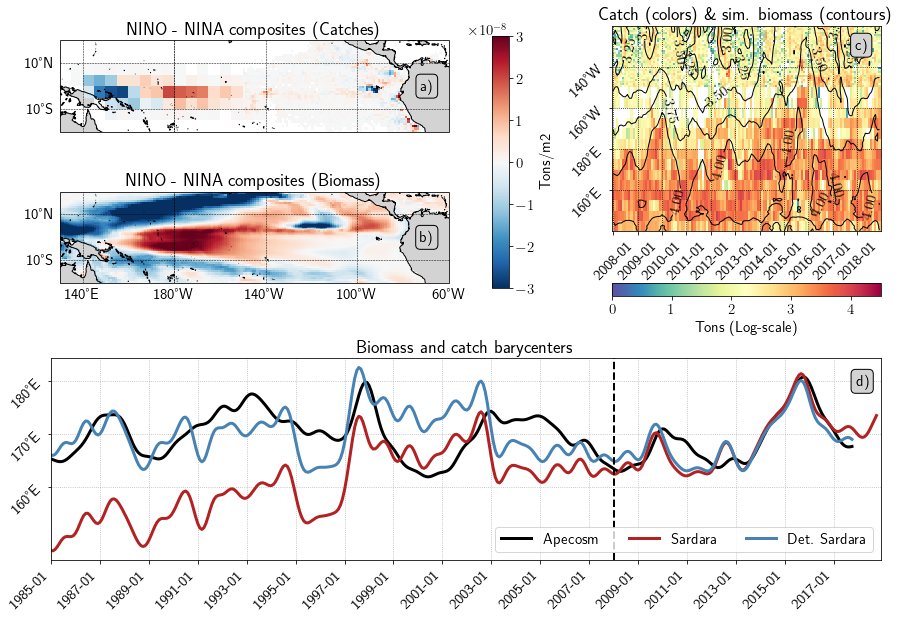
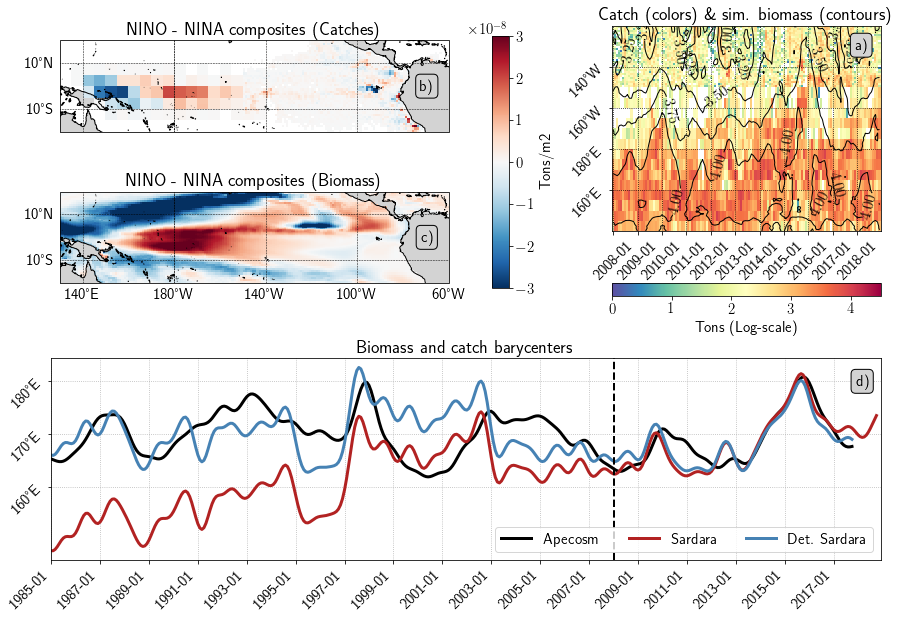
Update figure

diff --git a/scripts/sardara-zenodo/plot_validation_apecosm_sardara.py b/scripts/sardara-zenodo/plot_validation_apecosm_sardara.py
@@ -6,7 +6,7 @@
 #       extension: .py
 #       format_name: light
 #       format_version: '1.5'
-#       jupytext_version: 1.10.3
+#       jupytext_version: 1.13.7
 #   kernelspec:
 #     display_name: Python 3 (ipykernel)
 #     language: python
@@ -245,7 +245,7 @@ ax.yaxis.set_major_formatter(formatter0)
 ax.set_yticks(np.arange(160, -120 + 360, 20))
 #ax.set_xticks(np.arange(140, -120 + 360, 20))
 plt.setp(ax.get_yticklabels(), rotation=45, ha='right')
-plt.text(time[-10], apecosm['x'].values[-10], 'c)', bbox=dicttext, ha='center', va='center', zorder=3000, )
+plt.text(time[-10], apecosm['x'].values[-10], 'a)', bbox=dicttext, ha='center', va='center', zorder=3000, )
 
 cb = plt.colorbar(cs, orientation='horizontal', pad=0.17)
 ax.set_ylim(140, -120+360)
@@ -284,7 +284,7 @@ ax.add_feature(cfeature.LAND, color='lightgray')
 ax.add_feature(cfeature.COASTLINE)
 ax.set_title('NINO - NINA composites (Catches)')
 ax.set_extent([130, -60 + 360, -20, 20], crs=projin)
-plt.text(compo_sar['lon'].values[-10], 0, 'a)', bbox=dicttext, ha='center', zorder=3000, va='center', transform=projin)
+plt.text(compo_sar['lon'].values[-10], 0, 'b)', bbox=dicttext, ha='center', zorder=3000, va='center', transform=projin)
 #plt.text(compo_sar['lon'].values[30], compo_sar['lat'].values[10], 'Catches', bbox=dicttext, ha='center', va='center', transform=projin, zorder=3000)
 
 #################################################################### Plot Apecosm composites
@@ -313,7 +313,7 @@ ax.add_feature(cfeature.COASTLINE)
 ccc = 3e-8
 cs.set_clim(-ccc, ccc)
 ax.set_extent([130, -60 + 360, -20, 20], crs=projin)
-plt.text(compo_sar['lon'].values[-10], 0, 'b)', bbox=dicttext, ha='center', va='center', transform=projin, zorder=3000)
+plt.text(compo_sar['lon'].values[-10], 0, 'c)', bbox=dicttext, ha='center', va='center', transform=projin, zorder=3000)
 ax.set_title('NINO - NINA composites (Biomass)')
 #plt.text(compo_sar['lon'].values[30], compo_sar['lat'].values[10], 'Biomass', bbox=dicttext, ha='center', va='center', transform=projin, zorder=3000)
 
